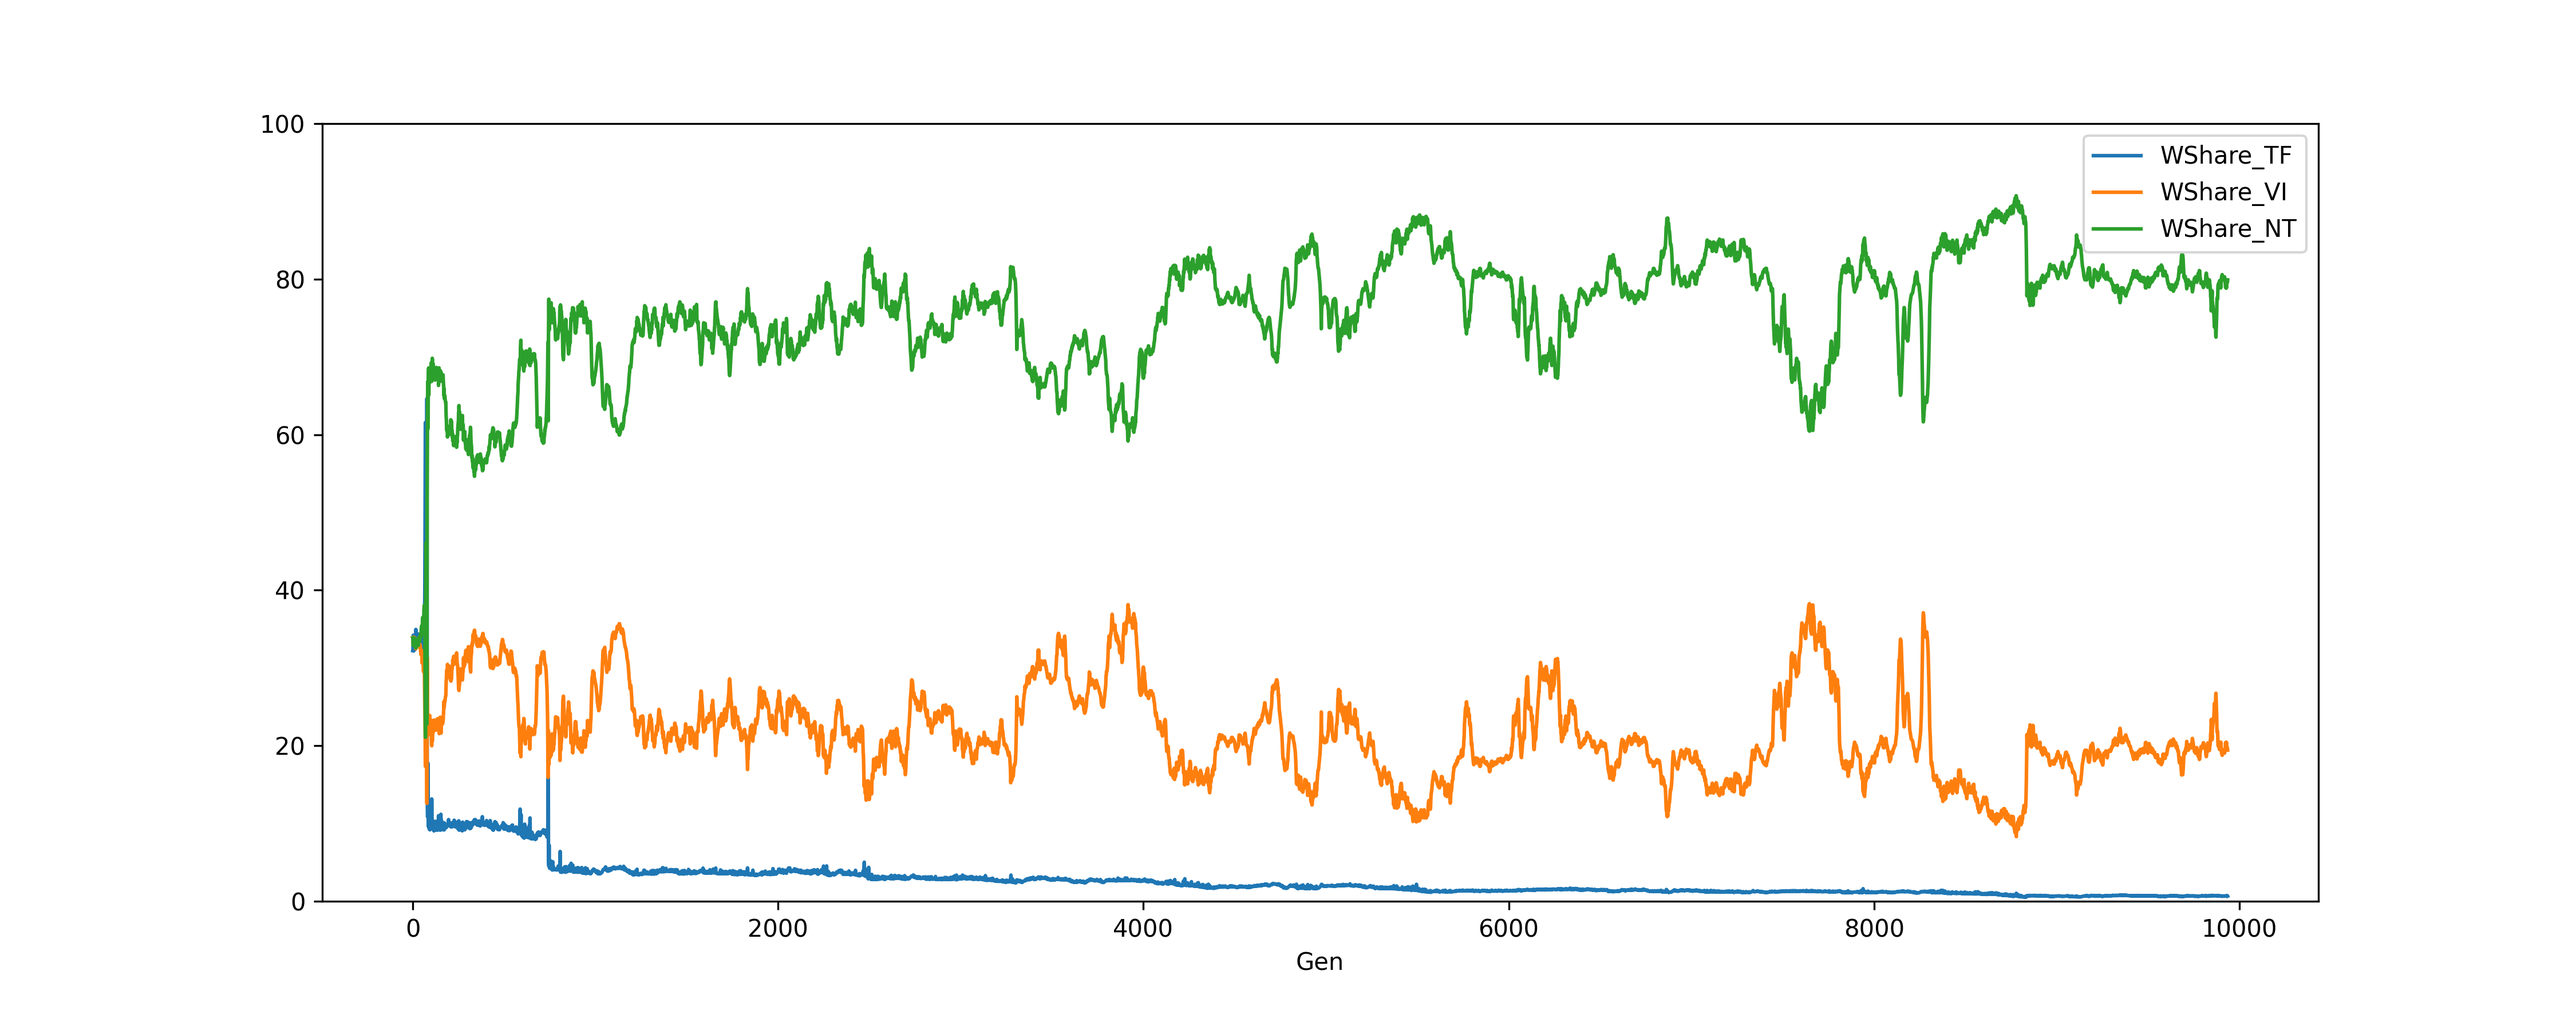
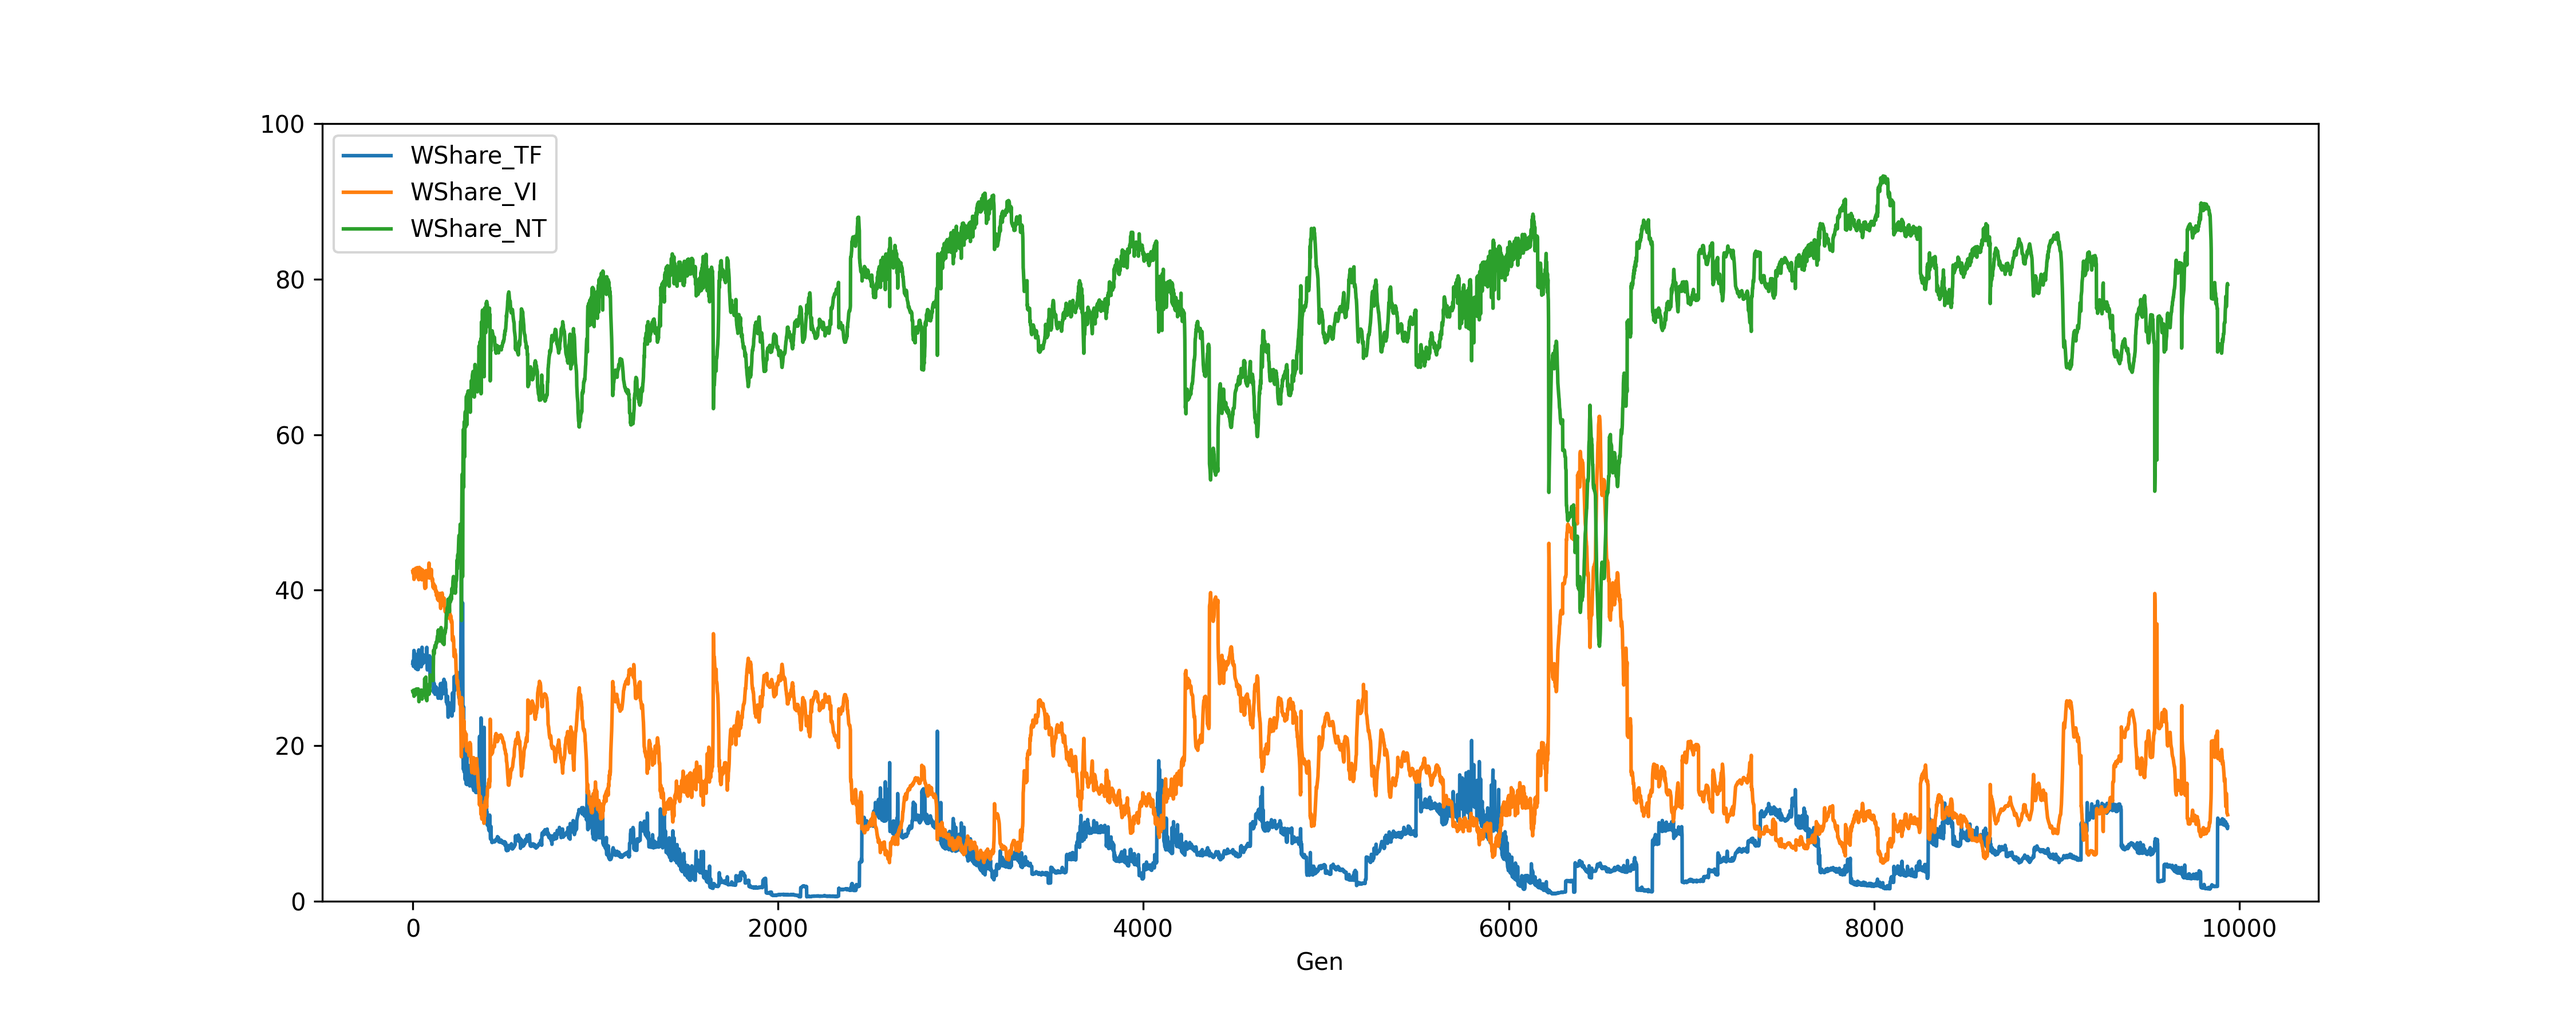
added newton option to run

Changed region(s): [[0.1556, 0.1244, 0.9022, 0.8711], [0.1244, 0.1244, 0.2178, 0.2489]]

diff --git a/evology/code/run.py b/evology/code/run.py
@@ -25,10 +25,12 @@ def run(POPULATION_SIZE, learning_mode, TIME, wealth_coordinates, tqdm_display, 
         df,pop = main("static", 'extended', 'esl', False, TIME, 0, POPULATION_SIZE, 0, wealth_coordinates, tqdm_display, reset_wealth)
     if learning_mode == 4:
         df,pop = main("between", 'extended', 'esl', False, TIME, PROBA_SELECTION, POPULATION_SIZE, MUTATION_RATE, wealth_coordinates, tqdm_display, reset_wealth)
+    if learning_mode == 11:
+        df,pop = main("between", 'scholl', 'newton', False, TIME, PROBA_SELECTION, POPULATION_SIZE, MUTATION_RATE, wealth_coordinates, tqdm_display, reset_wealth)
 
     return df, pop
 
-df,pop = run(100, 1, 10000, wealth_coordinates, tqdm_display=False, reset_wealth=False)
+df,pop = run(100, 11, 10000, wealth_coordinates, tqdm_display=False, reset_wealth=False)
 df.to_csv("evology/data/run_data.csv")
 print(df)
 
